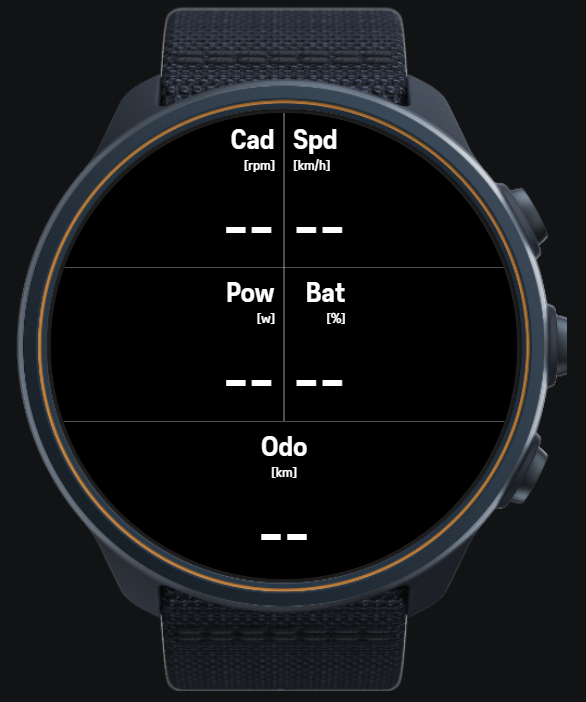
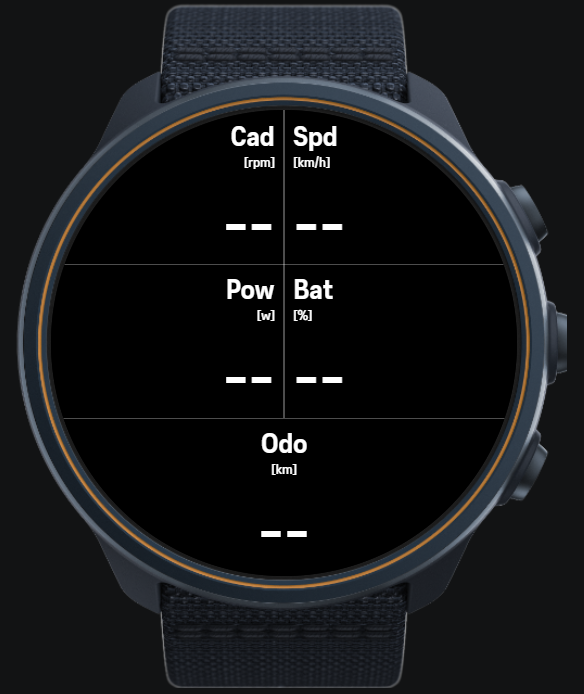
UI: fix battery column alignment (flex-start), update screenshot

diff --git a/t.html b/t.html
@@ -42,7 +42,7 @@
     </div>
 
     <!-- Row 2 right: Battery -->
-    <div style="top:34%;left:calc(52%);display:flex;flex-direction:column;align-items:flex-end;outline:var(--dbg);">
+    <div style="top:34%;left:calc(52%);display:flex;flex-direction:column;align-items:flex-start;outline:var(--dbg);">
       <span class="sp-t-s">Bat</span>
       <span class="sp-t-xs">[%]</span>
       <span class="sp-d-s f-num">